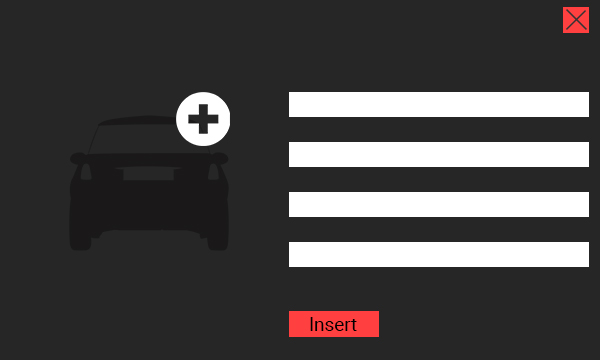
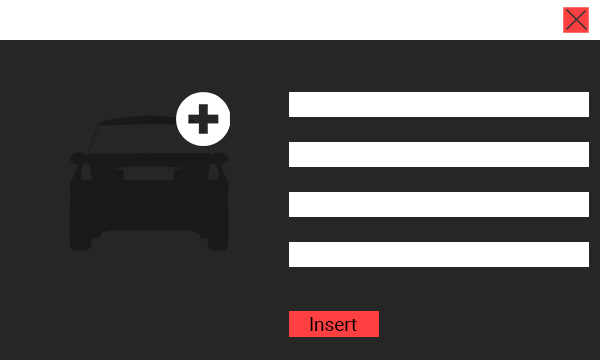
Design modification

Changed region(s): [[0.0, 0.0, 1.0, 0.1222]]

diff --git a/src/main/resources/fxml/style.css b/src/main/resources/fxml/style.css
@@ -1,0 +1,60 @@
+.root{
+    -fx-background-color: #262626;
+}
+
+.table-view{
+   -fx-background-color: transparent;
+}
+
+.table-view:focused{
+    -fx-background-color: transparent;
+}
+
+
+.table-view .column-header-background{
+    -fx-background-color: #ffffff;
+}
+
+.table-view .column-header-background .label{
+    -fx-background-color: transparent;
+    -fx-text-fill: black;
+    -fx-text-alignment: center;
+}
+
+.table-view .column-header {
+    -fx-background-color: transparent;
+}
+
+.table-view .table-cell{
+    -fx-text-fill: black;
+}
+
+.table-row-cell{
+    -fx-background-color: -fx-table-cell-border-color, #f2f2f2;
+    -fx-background-insets: 0, 0 0 1 0;
+    -fx-padding: 0.0em; /* 0 */
+}
+
+.table-row-cell:odd{
+    -fx-background-color: -fx-table-cell-border-color, #e6e6e6;
+    -fx-background-insets: 0, 0 0 1 0;
+    -fx-padding: 0.0em; /* 0 */
+}
+
+.table-row-cell:selected {
+    -fx-background-color: #ff6666;
+    -fx-background-insets: 0;
+    -fx-background-radius: 1;
+}
+
+.table-view > .virtual-flow > .scroll-bar:vertical,
+.table-view > .virtual-flow > .scroll-bar:vertical > .track,
+.table-view > .virtual-flow > .scroll-bar:vertical > .track-background,
+}
+
+
+
+.table-view > .virtual-flow > .scroll-bar > .increment-button,
+.table-view > .virtual-flow > .scroll-bar > .decrement-button {
+    -fx-opacity: 0;
+}

diff --git a/target/classes/fxml/style.css b/target/classes/fxml/style.css
@@ -1,0 +1,60 @@
+.root{
+    -fx-background-color: #262626;
+}
+
+.table-view{
+   -fx-background-color: transparent;
+}
+
+.table-view:focused{
+    -fx-background-color: transparent;
+}
+
+
+.table-view .column-header-background{
+    -fx-background-color: #ffffff;
+}
+
+.table-view .column-header-background .label{
+    -fx-background-color: transparent;
+    -fx-text-fill: black;
+    -fx-text-alignment: center;
+}
+
+.table-view .column-header {
+    -fx-background-color: transparent;
+}
+
+.table-view .table-cell{
+    -fx-text-fill: black;
+}
+
+.table-row-cell{
+    -fx-background-color: -fx-table-cell-border-color, #f2f2f2;
+    -fx-background-insets: 0, 0 0 1 0;
+    -fx-padding: 0.0em; /* 0 */
+}
+
+.table-row-cell:odd{
+    -fx-background-color: -fx-table-cell-border-color, #e6e6e6;
+    -fx-background-insets: 0, 0 0 1 0;
+    -fx-padding: 0.0em; /* 0 */
+}
+
+.table-row-cell:selected {
+    -fx-background-color: #ff6666;
+    -fx-background-insets: 0;
+    -fx-background-radius: 1;
+}
+
+.table-view > .virtual-flow > .scroll-bar:vertical,
+.table-view > .virtual-flow > .scroll-bar:vertical > .track,
+.table-view > .virtual-flow > .scroll-bar:vertical > .track-background,
+}
+
+
+
+.table-view > .virtual-flow > .scroll-bar > .increment-button,
+.table-view > .virtual-flow > .scroll-bar > .decrement-button {
+    -fx-opacity: 0;
+}

diff --git a/src/main/java/com/github/transactions/newTransactionController.java b/src/main/java/com/github/transactions/newTransactionController.java
@@ -10,6 +10,7 @@ import javafx.scene.control.Button;
 import javafx.scene.control.MenuButton;
 import javafx.scene.control.MenuItem;
 import javafx.scene.control.TextField;
+import javafx.scene.layout.Pane;
 import javafx.stage.Stage;
 import com.github.main.Main;
 import com.github.services.DataStorageService;
@@ -23,16 +24,14 @@ import java.util.ResourceBundle;
 
 public class newTransactionController implements Initializable {
 
-    @FXML
-    public TextField brandField;
-    public TextField modelField;
-    public TextField valueField;
-    public TextField mileageField;
-    public Button goButton;
+
+    public Button sellButton;
     public Button exitButton;
-    public MenuButton menuButton;
-    public MenuItem buy;
-    public MenuItem sale;
+    public MenuButton brandMenu;
+    public MenuButton modelMenu;
+    public MenuButton valueMenu;
+    public MenuButton mileageMenu;
+    public Pane anchorPane;
 
     private String brand;
     private String model;
@@ -40,25 +39,11 @@ public class newTransactionController implements Initializable {
     private String mileage;
 
 
-    public static Boolean isBuying = false;
-    public static Boolean isSelling = false;
-    public void buyOptionSelected(ActionEvent actionEvent){
-        menuButton.setText("Buy");
-        isSelling = false;
-        isBuying = true;
-    }
-    public void saleOptionSelected(ActionEvent actionEvent){
-        menuButton.setText("Sale");
-        isSelling = true;
-        isBuying = false;
-    }
-
-
     public void onActionExitButton(ActionEvent actionEvent){
         Stage stage = (Stage) exitButton.getScene().getWindow();
         stage.close();
     }
-    public void onActionGoButton(ActionEvent actionEvent) throws IOException {
+    public void onActionSellButton(ActionEvent actionEvent) throws IOException {
         try {
             DataStorageService.addTransaction(processTransaction());
             TransactionsController.NEEDS_DATA_UPDATE.set(true);
@@ -71,6 +56,19 @@ public class newTransactionController implements Initializable {
         }
     }
 
+    public void onActionBrand(ActionEvent actionEvent){
+
+    }
+    public void onActionModel(ActionEvent actionEvent){
+
+    }
+    public void onActionValue(ActionEvent actionEvent){
+
+    }
+    public void onActionMileage(ActionEvent actionEvent){
+
+    }
+
     private Transaction processTransaction() throws IOException {
 
         Calendar cal = Calendar.getInstance();
@@ -80,51 +78,33 @@ public class newTransactionController implements Initializable {
                 .setParameter(0, Main.USER.getUsername())
                 .setParameter(1, Main.USER.getPassword()).getResultList().get(0);
 
-        if(isBuying){
-            Car car = new Car(null, brand, model, Double.parseDouble(value) * (-1), Integer.parseInt(mileage));
-            return new Transaction(null, car, date, salesman);
-        }
-        else{
-            Car car = DataStorageService.entityManager.createQuery("select c from Car c where c.brand = ?0 and c.model = ?1 and c.value = ?2 and c.mileage = ?3", Car.class)
-                    .setParameter(0, brand)
-                    .setParameter(1, model)
-                    .setParameter(2, Double.parseDouble(value))
-                    .setParameter(3, Integer.parseInt(mileage))
-                    .getResultList().get(0);
 
-            DataStorageService.removeCar(car);
+        Car car = DataStorageService.entityManager.createQuery("select c from Car c where c.brand = ?0 and c.model = ?1 and c.value = ?2 and c.mileage = ?3", Car.class)
+                .setParameter(0, brand)
+                .setParameter(1, model)
+                .setParameter(2, Double.parseDouble(value))
+                .setParameter(3, Integer.parseInt(mileage))
+                .getResultList().get(0);
 
-            return new Transaction(null, car, date, salesman);
-        }
+        DataStorageService.removeCar(car);
+
+        return new Transaction(null, car, date, salesman);
+
     }
 
     @Override
     public void initialize(URL url, ResourceBundle resourceBundle) {
 
-        brandField.textProperty().addListener((observable, oldValue, newValue) -> {
 
-            brand = newValue;
 
-        });
-        modelField.textProperty().addListener((observable, oldValue, newValue) -> model = newValue);
-        valueField.textProperty().addListener((observable, oldValue, newValue) -> {
+        sellButton.setDefaultButton(true);
 
-            if (!newValue.matches("\\d*")) {
-                valueField.setText(newValue.replaceAll("[^\\d]", ""));
-            }
-
-            value = newValue;
-        });
-        mileageField.textProperty().addListener((observable, oldValue, newValue) -> {
-
-                if (!newValue.matches("\\d*")) {
-                    mileageField.setText(newValue.replaceAll("[^\\d]", ""));
-                }
-
-                mileage = newValue;
+        anchorPane.setOnMousePressed(pressEvent -> {
+            anchorPane.setOnMouseDragged(dragEvent -> {
+                anchorPane.getScene().getWindow().setX(dragEvent.getScreenX() - pressEvent.getSceneX());
+                anchorPane.getScene().getWindow().setY(dragEvent.getScreenY() - pressEvent.getSceneY());
             });
-
-        goButton.setDefaultButton(true);
+        });
 
     }
 }

diff --git a/src/main/java/com/github/garage/newCarController.java b/src/main/java/com/github/garage/newCarController.java
@@ -6,6 +6,7 @@ import javafx.fxml.FXML;
 import javafx.fxml.Initializable;
 import javafx.scene.control.Button;
 import javafx.scene.control.TextField;
+import javafx.scene.layout.Pane;
 import javafx.stage.Stage;
 import com.github.services.DataStorageService;
 
@@ -22,6 +23,7 @@ public class newCarController implements Initializable {
     public TextField modelTextField;
     public TextField valueTextField;
     public TextField mileageTextField;
+    public Pane anchorPane;
 
     static String brand = null;
     static String model = null;
@@ -30,14 +32,14 @@ public class newCarController implements Initializable {
 
     public static Car newCar;
 
-    @FXML
+
     public void onActionExitButton(ActionEvent actionEvent){
 
         Stage stage = (Stage) exitButton.getScene().getWindow();
         stage.close();
     }
 
-    @FXML
+
     public void onActionInsertButton(ActionEvent actionEvent) throws IOException {
 
         newCar = new Car(null, brand, model, value, mileage);
@@ -48,6 +50,8 @@ public class newCarController implements Initializable {
 
 
     }
+
+
 
     @Override
     public void initialize(URL url, ResourceBundle resourceBundle) {
@@ -70,6 +74,13 @@ public class newCarController implements Initializable {
             }
 
             mileage = Integer.valueOf(newValue);
+        });
+
+        anchorPane.setOnMousePressed(pressEvent -> {
+            anchorPane.setOnMouseDragged(dragEvent -> {
+                anchorPane.getScene().getWindow().setX(dragEvent.getScreenX() - pressEvent.getSceneX());
+                anchorPane.getScene().getWindow().setY(dragEvent.getScreenY() - pressEvent.getSceneY());
+            });
         });
 
     }

diff --git a/src/main/java/com/github/services/DataStorageService.java b/src/main/java/com/github/services/DataStorageService.java
@@ -65,6 +65,24 @@ public class DataStorageService implements DataStorageInterface{
                 .executeUpdate();
         entityManager.getTransaction().commit();
     }
+    public static List<Car> findCarsByBrand(String brand){
+        return entityManager.createQuery("select c from Car c where c.brand = ?0", Car.class)
+                .setParameter(0, brand).getResultList();
+    }
+    public static List<Car> findCarsByModel(String model){
+        return entityManager.createQuery("select c from Car c where c.model = ?0", Car.class)
+                .setParameter(0, model).getResultList();
+    }
+    public static List<Car> findCarsByValue(Double value){
+        return entityManager.createQuery("select c from Car c where c.value = ?0", Car.class)
+                .setParameter(0, value).getResultList();
+    }
+    public static List<Car> findCarsByMileage(Integer mileage){
+        return entityManager.createQuery("select c from Car c where c.mileage = ?0", Car.class)
+                .setParameter(0, mileage).getResultList();
+    }
+
+
 
     public static void addTransaction(Transaction transaction) throws IOException, ParseException {
 
